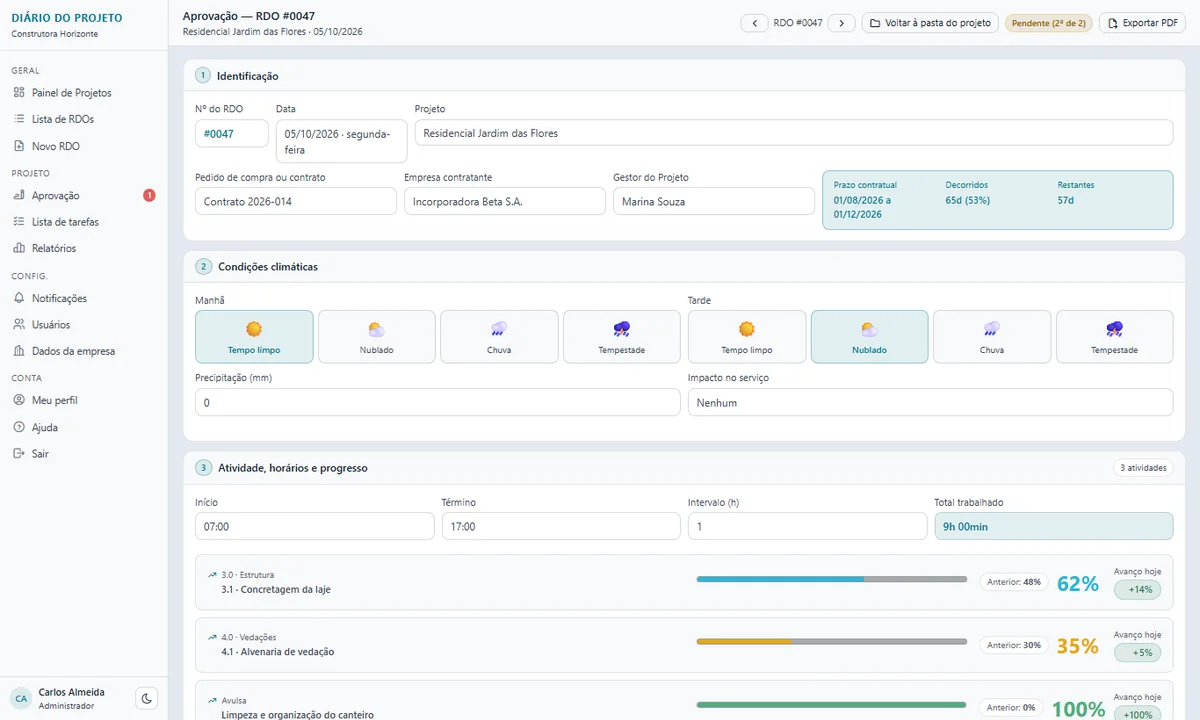
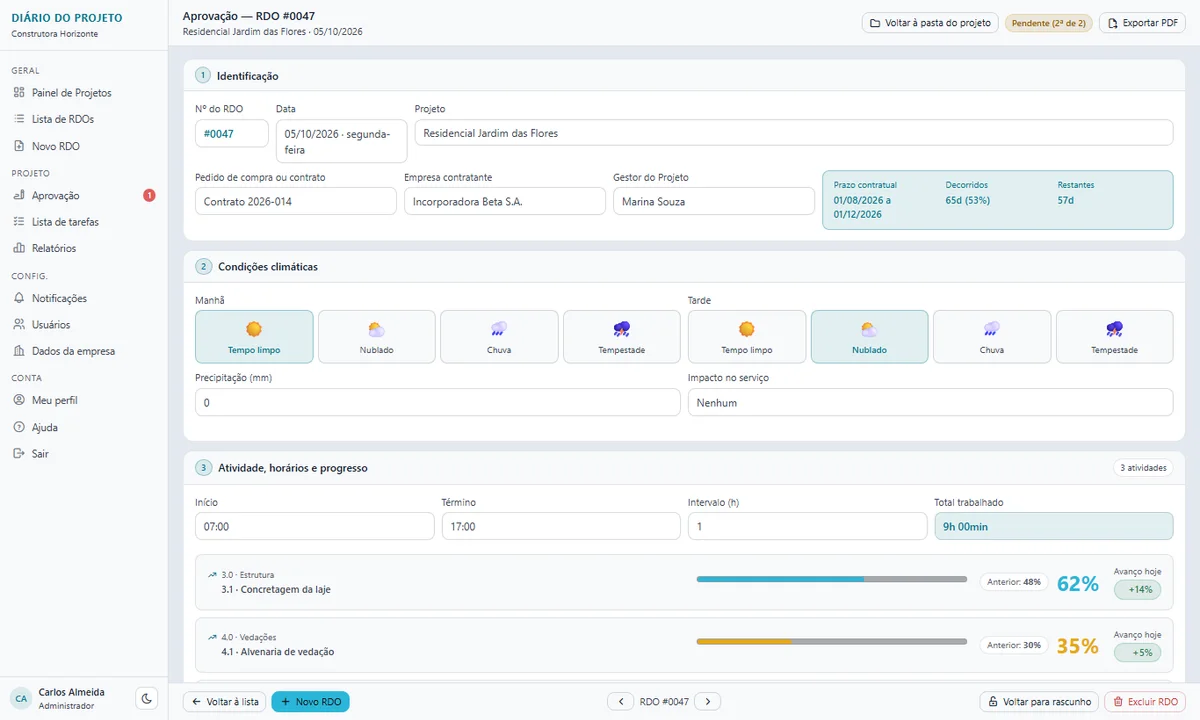
Tela de aprovação: barra de ações fixa no rodapé (voltar à lista, novo RDO, setas, voltar para rascunho, excluir)
Antes ficava no fim do conteúdo e só aparecia rolando. Manual, captura e teste e2e.

Changed region(s): [[0.5242, 0.9472, 0.9867, 1.0], [0.1542, 0.9472, 0.3083, 1.0], [0.6475, 0.0306, 0.6783, 0.0611]]

diff --git a/app/(app)/aprovacao/[id]/page.tsx b/app/(app)/aprovacao/[id]/page.tsx
@@ -231,7 +231,6 @@ export default function AprovacaoPage() {
         subtitulo={`${rdo.projeto.nome} · ${fmtData(rdo.data)}`}
         acoes={
           <>
-            <NavegacaoRdos rdoId={id} projetoId={rdo.projeto.id} numero={rdo.numero} />
             <button className="btn btn-sm" onClick={() => router.push(`/projetos/${rdo.projeto.id}`)}>
               <i className="ti ti-folder" /> Voltar à pasta do projeto
             </button>
@@ -822,35 +821,42 @@ export default function AprovacaoPage() {
             </div>
           </div>
 
-          {/* Ações secundárias — a decisão de assinar/revisar já está na seção acima */}
-          <div style={{ display: 'flex', justifyContent: 'flex-start', gap: 8, flexWrap: 'wrap', marginTop: 10 }}>
-            <button className="btn btn-sm" onClick={() => router.push('/rdos')}>
-              <i className="ti ti-arrow-left" /> Voltar à lista
-            </button>
-            {pode('emitir_rdo') && (
-              <button className="btn btn-p btn-sm" onClick={() => router.push(`/rdos/novo?projetoId=${rdo.projeto.id}`)}>
-                <i className="ti ti-plus" /> Novo RDO
-              </button>
-            )}
-            {rdo.status !== 'RASCUNHO' && (
-              pode('aprovar_rdo') ||
-              (pode('emitir_rdo') && rdo.emissor.id === session?.usuario.id && rdo.status !== 'APROVADO')
-            ) && (
-              <button className="btn btn-sm"
-                disabled={reabrirRdo.isPending} onClick={handleReabrir}>
-                <i className={`ti ${reabrirRdo.isPending ? 'ti-loader' : 'ti-lock-open'}`}
-                  style={reabrirRdo.isPending ? {animation:'spin 1s linear infinite'} : {}} />
-                {reabrirRdo.isPending ? 'Voltando...' : 'Voltar para rascunho'}
-              </button>
-            )}
-            {pode('aprovar_rdo') && (
-              <button className="btn btn-sm" style={{ color: 'var(--td)', borderColor: 'rgba(224,92,92,.35)' }}
-                disabled={excluirRdo.isPending} onClick={handleExcluir}>
-                <i className="ti ti-trash" /> Excluir RDO
-              </button>
-            )}
-          </div>
 
+        </div>
+      </div>
+
+      {/* Barra fixa no rodapé: sempre à mostra, sem precisar rolar até o fim da tela.
+          A decisão de assinar/revisar fica na seção Assinaturas. */}
+      <div className="ab" style={{ gap: 8, flexWrap: 'wrap' }}>
+        <div style={{ display: 'flex', gap: 6, flexWrap: 'wrap' }}>
+          <button className="btn btn-sm" onClick={() => router.push('/rdos')}>
+            <i className="ti ti-arrow-left" /> Voltar à lista
+          </button>
+          {pode('emitir_rdo') && (
+            <button className="btn btn-p btn-sm" onClick={() => router.push(`/rdos/novo?projetoId=${rdo.projeto.id}`)}>
+              <i className="ti ti-plus" /> Novo RDO
+            </button>
+          )}
+        </div>
+        <NavegacaoRdos rdoId={id} projetoId={rdo.projeto.id} numero={rdo.numero} />
+        <div style={{ display: 'flex', gap: 6, flexWrap: 'wrap' }}>
+          {rdo.status !== 'RASCUNHO' && (
+            pode('aprovar_rdo') ||
+            (pode('emitir_rdo') && rdo.emissor.id === session?.usuario.id && rdo.status !== 'APROVADO')
+          ) && (
+            <button className="btn btn-sm"
+              disabled={reabrirRdo.isPending} onClick={handleReabrir}>
+              <i className={`ti ${reabrirRdo.isPending ? 'ti-loader' : 'ti-lock-open'}`}
+                style={reabrirRdo.isPending ? {animation:'spin 1s linear infinite'} : {}} />
+              {reabrirRdo.isPending ? 'Voltando...' : 'Voltar para rascunho'}
+            </button>
+          )}
+          {pode('aprovar_rdo') && (
+            <button className="btn btn-sm" style={{ color: 'var(--td)', borderColor: 'rgba(224,92,92,.35)' }}
+              disabled={excluirRdo.isPending} onClick={handleExcluir}>
+              <i className="ti ti-trash" /> Excluir RDO
+            </button>
+          )}
         </div>
       </div>
 

diff --git a/app/(app)/ajuda/conteudo.ts b/app/(app)/ajuda/conteudo.ts
@@ -380,7 +380,7 @@ export const SECOES: Secao[] = [
       { t: 'aviso', x: 'Para assinar, você precisa ter **cadastrado a sua assinatura digital** em **Meu perfil**. Se ainda não cadastrou, o botão vira **Cadastrar assinatura pra assinar** e leva você até lá.' },
       { t: 'h', x: 'Voltar para rascunho e excluir' },
       { t: 'lista', x: [
-        '**Voltar para rascunho**: depois do envio o RDO não pode ser editado; este botão o devolve ao estado de rascunho para você corrigir. Quem **emitiu** o RDO pode usá-lo enquanto ele não estiver aprovado; quem tem permissão de **aprovar RDOs** pode usá-lo em qualquer estado. O botão aparece na tela de aprovação e no próprio RDO. As assinaturas já feitas são descartadas, o RDO precisa ser enviado de novo, e a ação fica registrada no log.',
+        '**Voltar para rascunho**: depois do envio o RDO não pode ser editado; este botão o devolve ao estado de rascunho para você corrigir. Quem **emitiu** o RDO pode usá-lo enquanto ele não estiver aprovado; quem tem permissão de **aprovar RDOs** pode usá-lo em qualquer estado. O botão fica na **barra fixa do rodapé** da tela de aprovação (junto de **Voltar à lista**, **Novo RDO**, das setas entre RDOs e de **Excluir RDO**, sempre à mostra, sem precisar rolar) e também aparece no próprio RDO. As assinaturas já feitas são descartadas, o RDO precisa ser enviado de novo, e a ação fica registrada no log.',
         '**Excluir RDO**: apaga o relatório.',
         'No rodapé do RDO, **Log de edições** e **Visualizações** mostram quem alterou e quem abriu o relatório, com data e hora.',
       ] },

diff --git a/tests/e2e/rdo-navegacao.spec.ts b/tests/e2e/rdo-navegacao.spec.ts
@@ -42,3 +42,22 @@ test('RDO enviado para aprovação continua com as setas e leva ao anterior e de
   await page.goto(`/rdos/${b}`)
   await expect(page.getByRole('button', { name: 'RDO anterior' })).toBeEnabled()
 })
+
+test('na tela de aprovação a barra de ações fica fixa no rodapé (sem rolar até o fim)', async ({ page, playwright }) => {
+  const api = await apiComo(playwright)
+  const r = await api.post('/api/app/rdos', { data: { projetoId: PROJETO_ID, data: '2026-11-13', copiarAnterior: false } })
+  const { id } = await r.json()
+  expect((await api.post(`/api/app/rdos/${id}/enviar`, { data: {} })).status()).toBe(200)
+  await api.dispose()
+
+  await login(page)
+  await page.goto(`/aprovacao/${id}`)
+  for (const nome of ['Voltar à lista', 'Novo RDO', 'Voltar para rascunho', 'Excluir RDO']) {
+    await expect(page.getByRole('button', { name: nome }), nome).toBeInViewport()
+  }
+  // continua visível mesmo com a página rolada
+  await page.locator('.content').evaluate(e => { e.scrollTop = e.scrollHeight })
+  await expect(page.getByRole('button', { name: 'Excluir RDO' })).toBeInViewport()
+  await page.locator('.content').evaluate(e => { e.scrollTop = 0 })
+  await expect(page.getByRole('button', { name: 'Excluir RDO' })).toBeInViewport()
+})
